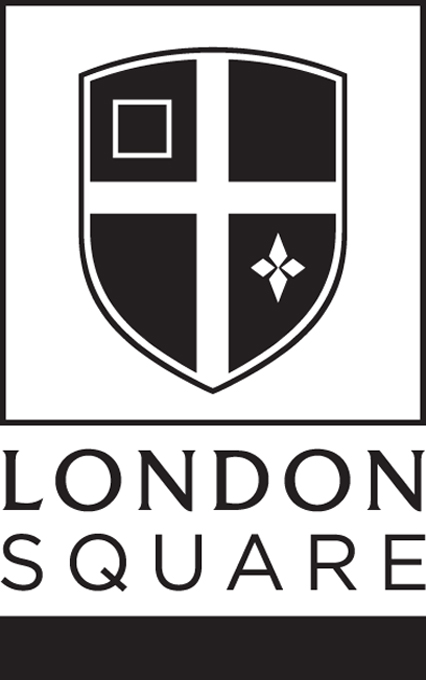
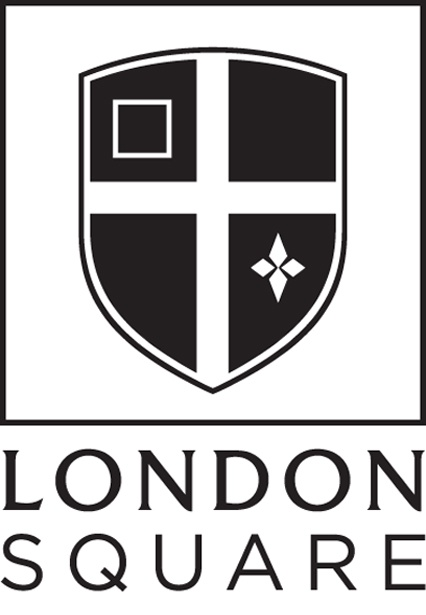
fix(builders): revert London Square to JPG without black strip, height:120

Changed region(s): [[0.0, 0.2163, 1.0, 1.0], [0.1831, 0.0618, 0.8239, 0.1854], [0.0305, 0.0, 0.9765, 0.0309]]

diff --git a/src/lib/builders.ts b/src/lib/builders.ts
@@ -14,7 +14,7 @@ export const LONDON_BUILDERS: Builder[] = [
   { name: 'Fenton', logo: '/builders/london/fenton.jpg', alt: 'Fenton' },
   { name: 'Hill', logo: '/builders/london/hill.png', alt: 'Hill' },
   { name: 'Knight Dragon', logo: '/builders/london/knight-dragon.jpg', alt: 'Knight Dragon', height: 130 },
-  { name: 'London Square', logo: '/builders/london/london-square.svg', alt: 'London Square' },
+  { name: 'London Square', logo: '/builders/london/london-square.jpg', alt: 'London Square', height: 120 },
 ];
 
 export const DUBAI_BUILDERS: Builder[] = [
